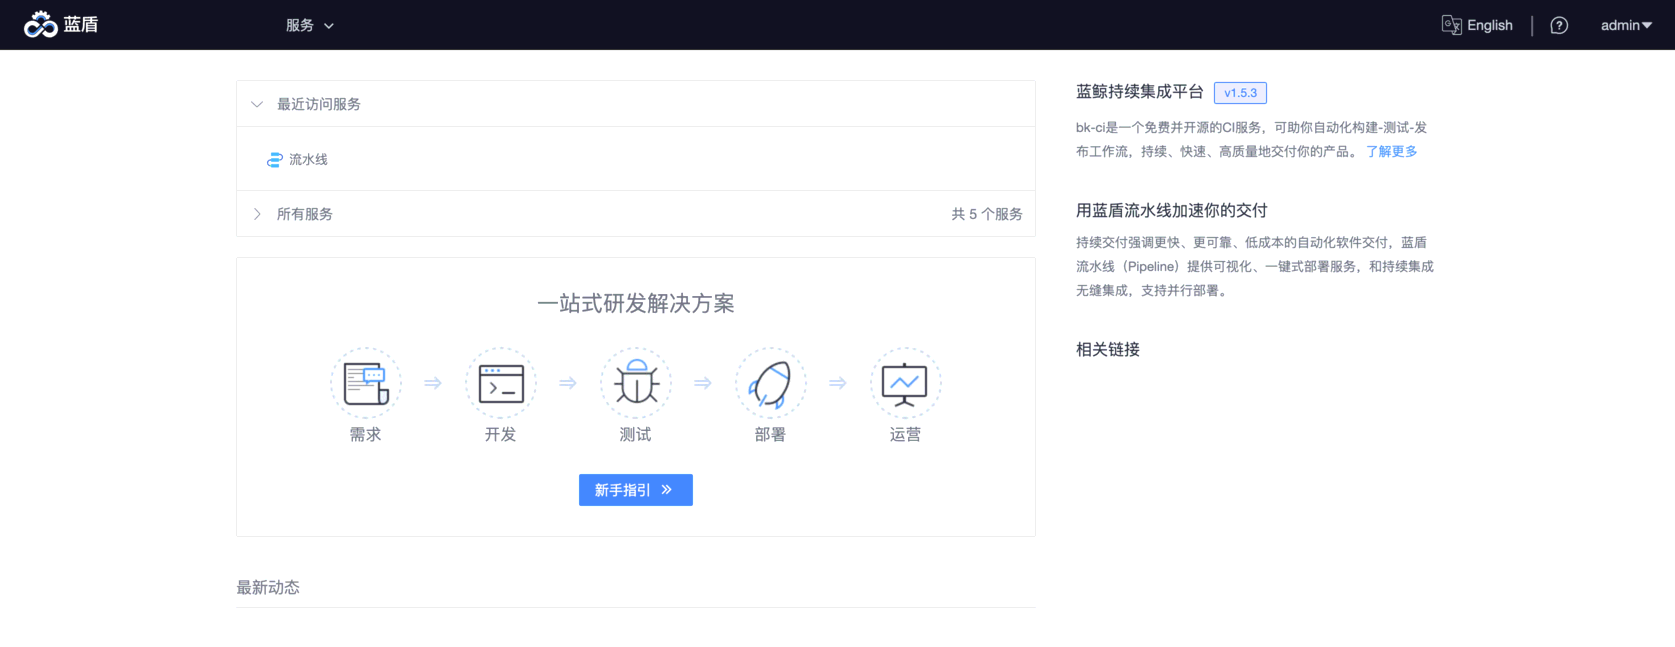
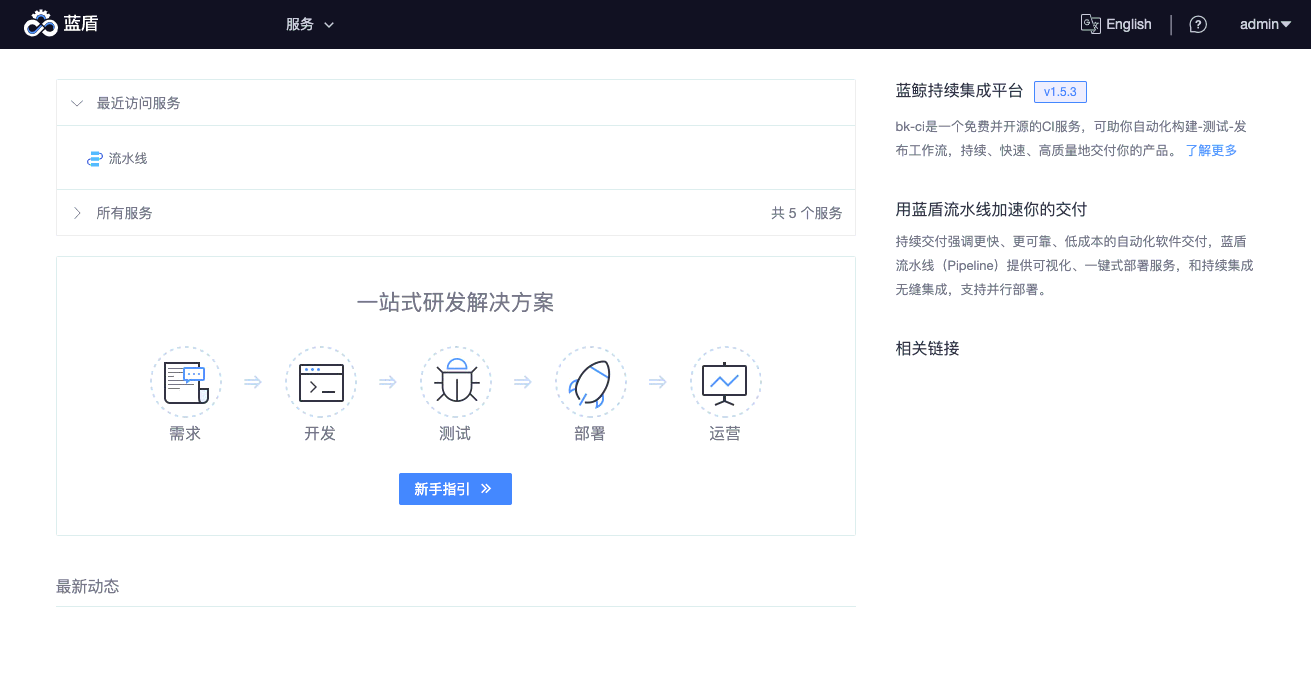
ci: 调整图片宽度; 修正错误链接; 新增bkci docs链接.

diff --git a/ZH/6.0/部署指南/产品白皮书/增强包安装/部署安装/CI-start.md b/ZH/6.0/部署指南/产品白皮书/增强包安装/部署安装/CI-start.md
@@ -85,7 +85,9 @@ IP2 ci(dockerhost)
 
 完成域名解析后，即可在蓝鲸工作台打开“蓝盾”。
 
-扩展阅读：[快速入门](../../../../持续集成平台/产品白皮书/Quickstarts/Create-your-first-pipeline.md) [产品白皮书](../../../../持续集成平台/产品白皮书/产品简介/README.md) [视频]()。
+相关链接：
+* [快速入门](../../../../持续集成平台/产品白皮书/Quickstarts/Create-your-first-pipeline.md)
+* [产品白皮书](../../../../持续集成平台/产品白皮书/产品简介/README.md)
 
 ![CI_home.png](../../assets/CI_home.png)
 
